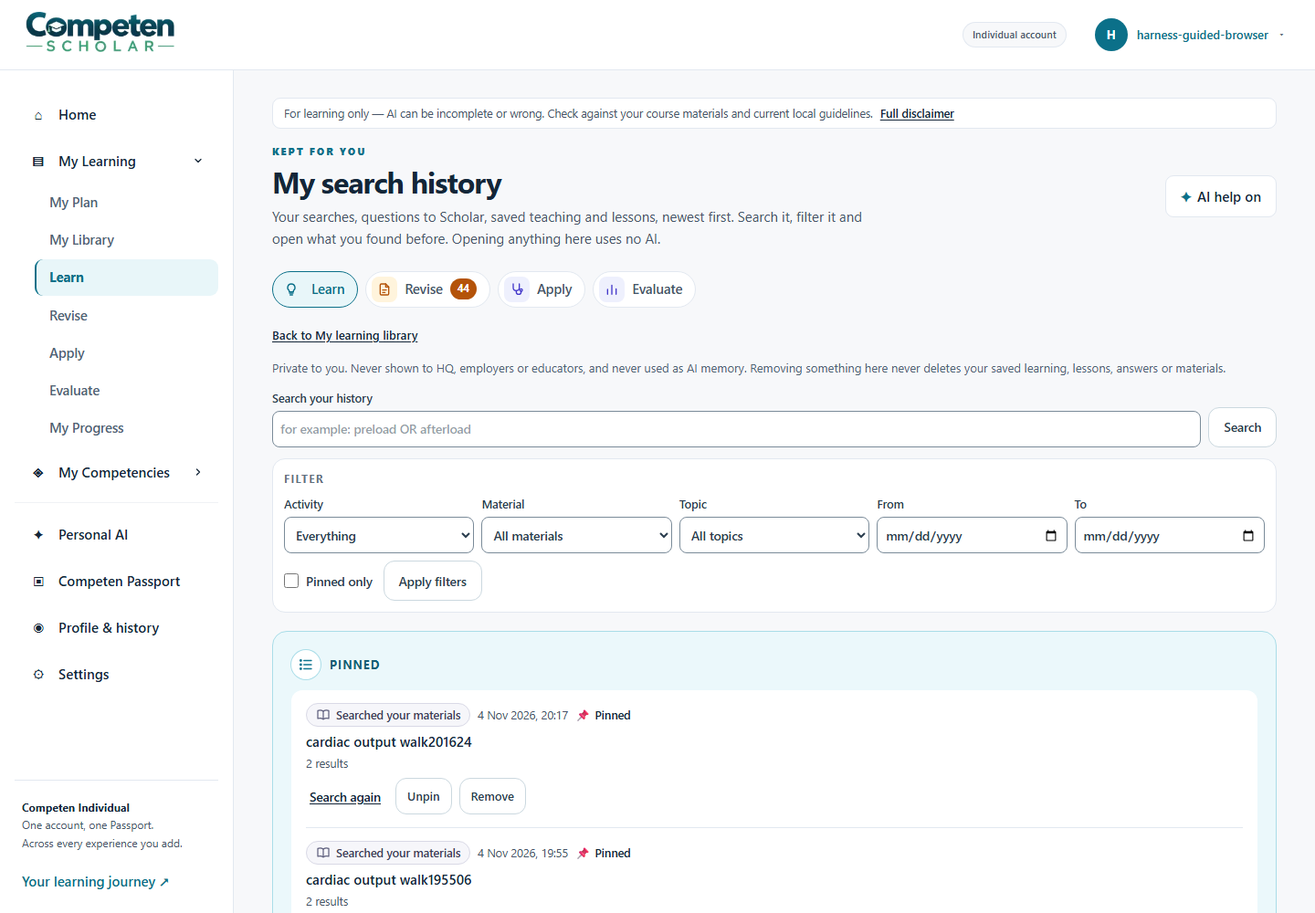
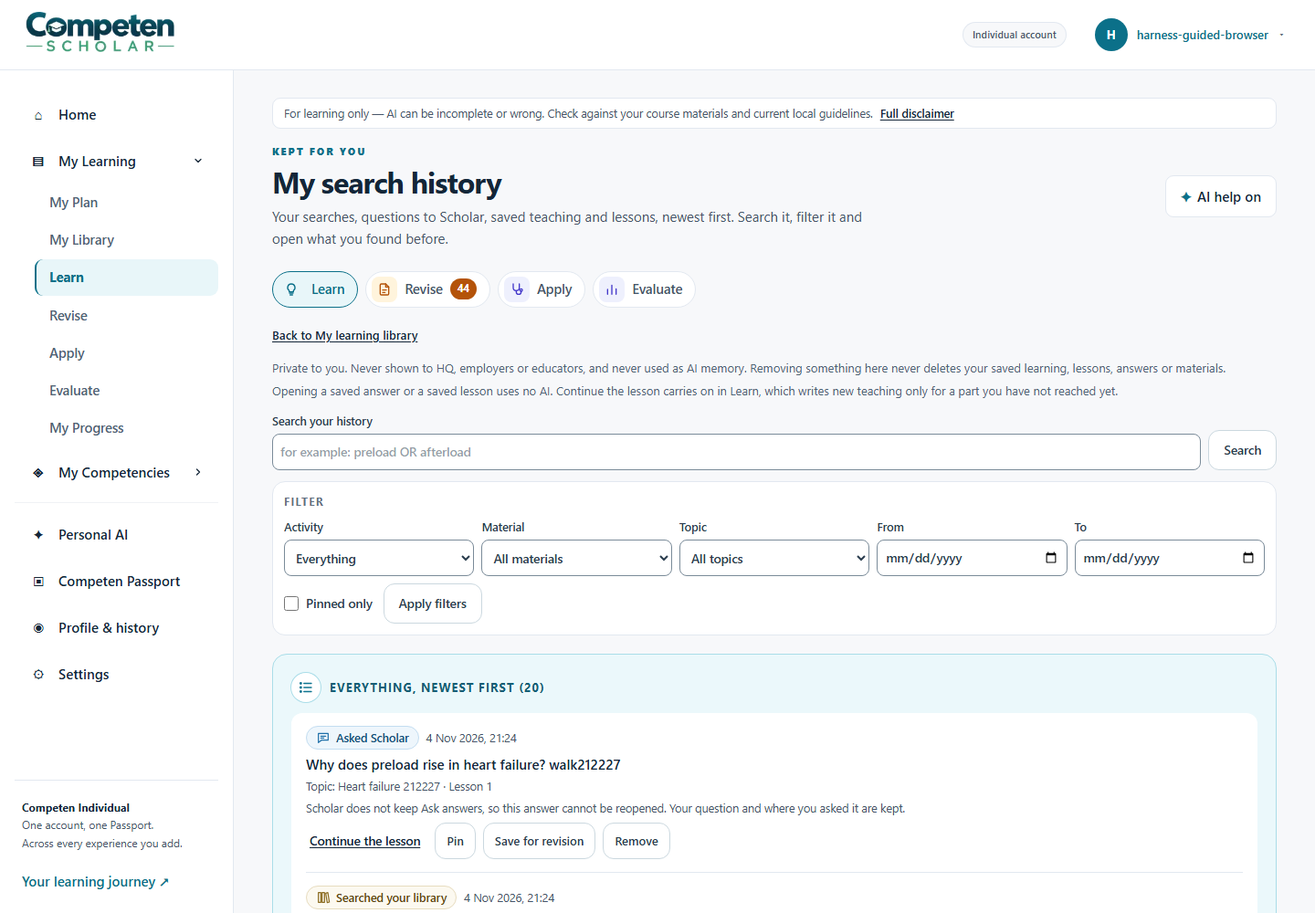
SCHOLAR-SEARCH-HISTORY-01: lessons open their saved teaching in the library (no AI), Continue is a separate worded link; build record and owner acceptance checklist

diff --git a/src/lib/individual/scholar/search-history.ts b/src/lib/individual/scholar/search-history.ts
@@ -11,8 +11,9 @@
 //   CAPTURE      only a SUBMITTED search or question of 2 to 300 characters with a letter or digit: never a keystroke, an
 //                empty query or a click. One client request key per submission, so a retry is the same entry. The same
 //                words again within two minutes are one entry (a double submit), never two.
-//   OPENING      a saved answer reopens as saved (the library's version view) and a lesson as recorded: no AI call. Ask
-//                answers were never kept (owner ruling D10), so an Ask entry says so and offers where it was asked.
+//   OPENING      a saved answer reopens as saved (the library's version view) and a lesson's saved teaching through the library:
+//                no AI call. Ask answers were never kept (owner ruling D10), so an Ask entry says so and offers where it was
+//                asked. Continuing a lesson in Learn is a separate, plainly worded link (CONTINUE_NOTE).
 //   PRIVACY      learner owned. Never shown to HQ, employers or educators, never Personal AI memory. Removing an entry or
 //                clearing never deletes saved teaching, lessons, attempts, learning evidence or materials.
 
@@ -38,6 +39,7 @@ export const TOPIC_MAX = 120;
 /** The same words of the same activity again within this window are one submission (a double click or a resend). */
 export const COLLAPSE_MS = 120_000;
 export const ASK_NOT_KEPT = "Scholar does not keep Ask answers, so this answer cannot be reopened. Your question and where you asked it are kept.";
+export const CONTINUE_NOTE = "Opening a saved answer or a saved lesson uses no AI. Continue the lesson carries on in Learn, which writes new teaching only for a part you have not reached yet.";
 export const HISTORY_PRIVACY = "Private to you. Never shown to HQ, employers or educators, and never used as AI memory. Removing something here never deletes your saved learning, lessons, answers or materials.";
 
 const UUID = /^[0-9a-f]{8}-[0-9a-f]{4}-[0-9a-f]{4}-[0-9a-f]{4}-[0-9a-f]{12}$/i;
@@ -155,23 +157,24 @@ export type HistoryEntry = {
   materialId: string | null; chunkId: string | null; artefactId: string | null; sessionId: string | null; step: number | null;
   resultCount: number | null; label: string; headline: string | null; pinnedAt: string | null; createdAt: string;
 };
-export type EntryLink = { label: string; path: string };
+export type EntryLink = { label: string; path: string; kind: "open" | "continue" };
 
 const enc = encodeURIComponent;
 /**
- * Pure. Where an entry leads, as paths in the Scholar area. Every one opens something kept (no AI on open): a saved answer
- * through the library's version view, a lesson through Learn's recorded session, a search by running it again (full text,
- * no AI). An Ask entry has no answer to open (ASK_NOT_KEPT): its lesson or section is offered instead.
+ * Pure. Where an entry leads, as paths in the Scholar area. "open" links open something kept and can never call an AI: a saved
+ * answer through the library's version view, a lesson's saved teaching through the library filtered to it, a section of the
+ * notes, a search run again (full text). An Ask entry has no answer to open (ASK_NOT_KEPT). "continue" is the one exception and
+ * says so: it carries on in Learn, whose saved teaching opens as saved, but which writes teaching for a part not yet reached,
+ * and records the visit. It is always the learner's click, never where an entry opens first.
  */
 export function entryLinks(e: Pick<HistoryEntry, "activity" | "query" | "materialId" | "chunkId" | "artefactId" | "sessionId" | "step">): EntryLink[] {
   const out: EntryLink[] = [];
-  if (e.artefactId) out.push({ label: "Open the saved answer", path: `study/saved?version=${enc(e.artefactId)}` });
-  if (e.activity === "lesson" && e.sessionId) out.push({ label: "Open the lesson", path: `study/learn?session=${enc(e.sessionId)}` });
-  else if (e.sessionId && e.step !== null) out.push({ label: "Open the lesson", path: `study/learn?session=${enc(e.sessionId)}#lesson-${e.step}` });
-  else if (e.sessionId) out.push({ label: "Open the lesson", path: `study/learn?session=${enc(e.sessionId)}` });
-  if (e.activity === "ask" && !e.sessionId && e.materialId && e.chunkId) out.push({ label: "Open the section", path: `study/${enc(e.materialId)}#c-${e.chunkId}` });
-  if (e.activity === "material_search" && e.query) out.push({ label: "Search again", path: `study/learn?q=${enc(e.query.slice(0, 200))}` });
-  if (e.activity === "library_search" && e.query) out.push({ label: "Search again", path: `study/saved?q=${enc(e.query.slice(0, 200))}` });
+  if (e.artefactId) out.push({ label: "Open the saved answer", path: `study/saved?version=${enc(e.artefactId)}`, kind: "open" });
+  if (e.activity === "lesson" && e.sessionId) out.push({ label: "Open its saved lessons", path: `study/saved?session=${enc(e.sessionId)}`, kind: "open" });
+  if (e.activity === "ask" && e.materialId && e.chunkId) out.push({ label: "Open the section", path: `study/${enc(e.materialId)}#c-${e.chunkId}`, kind: "open" });
+  if (e.activity === "material_search" && e.query) out.push({ label: "Search again", path: `study/learn?q=${enc(e.query.slice(0, 200))}`, kind: "open" });
+  if (e.activity === "library_search" && e.query) out.push({ label: "Search again", path: `study/saved?q=${enc(e.query.slice(0, 200))}`, kind: "open" });
+  if (e.sessionId) out.push({ label: "Continue the lesson", path: `study/learn?session=${enc(e.sessionId)}${e.step !== null ? `#lesson-${e.step}` : ""}`, kind: "continue" });
   return out;
 }
 

diff --git a/src/app/individual/(app)/[experience]/(scholar)/study/saved/searches/page.tsx b/src/app/individual/(app)/[experience]/(scholar)/study/saved/searches/page.tsx
@@ -13,7 +13,7 @@ import { LEARN_ACTION_LABEL, type LearnAction } from "@/lib/individual/scholar/c
 import { displaySessionTitle } from "@/lib/individual/scholar/learn-search";
 import { learnerTimeZone } from "@/lib/individual/scholar/learning-definitions";
 import {
-  ACTIVITY_FILTER_LABEL, HISTORY_ACTIVITIES, HISTORY_PAGE_SIZE, HISTORY_PRIVACY, entryLinks, entryTitle, hasHistoryFilters, historyParams,
+  ACTIVITY_FILTER_LABEL, CONTINUE_NOTE, HISTORY_ACTIVITIES, HISTORY_PAGE_SIZE, HISTORY_PRIVACY, entryLinks, entryTitle, hasHistoryFilters, historyParams,
   parseHistoryQuery, saveTarget, type HistoryEntry, type HistoryQuery,
 } from "@/lib/individual/scholar/search-history";
 
@@ -24,7 +24,8 @@ export const dynamic = "force-dynamic";
 // A part of the Personal Learning Library (Saved learning), reachable from Learn's search and the library's search. One private
 // list, newest first, of the learner's submitted searches and Ask Scholar questions (from now on) and of what Scholar already
 // kept (their saved teaching and lessons, read at request time: nothing invented, nothing regenerated). Full-text search and
-// filters for activity, material, topic and date. Every link opens something kept, so opening uses NO AI. Pin, Save for
+// filters for activity, material, topic and date. Opening a saved answer or a lesson's saved teaching uses NO AI; continuing in
+// Learn is a separate, plainly worded link. Pin, Save for
 // revision (the 820 bookmark), Remove one, Clear all (confirmed). Database reads only, keyed on the caller. Policy
 // scholar_search_history (default off). Never shown to HQ, employers or educators, never AI memory.
 
@@ -79,7 +80,7 @@ export default async function SearchHistoryPage({ params, searchParams }: { para
   const header = (
     <>
       <PageHeader accent={SCHOLAR.accent} eyebrow="Kept for you" title="My search history"
-        intro="Your searches, questions to Scholar, saved teaching and lessons, newest first. Search it, filter it and open what you found before. Opening anything here uses no AI." />
+        intro="Your searches, questions to Scholar, saved teaching and lessons, newest first. Search it, filter it and open what you found before." />
       <StudyNav dueCount={due} study={null} />
       <p className="mb-4 text-[13px]"><Link href={studyHref("saved")} className={`font-semibold underline underline-offset-2 ${focusRing}`}>Back to My learning library</Link></p>
     </>
@@ -109,7 +110,7 @@ export default async function SearchHistoryPage({ params, searchParams }: { para
     const title = e.activity === "lesson" ? displaySessionTitle(e.label) : entryTitle(e, a => LEARN_ACTION_LABEL[a as LearnAction]);
     return {
       key: e.key, activity: e.activity, title, when: fmt.format(new Date(e.createdAt)), whenIso: e.createdAt, meta, headline: e.headline, pinned: !!e.pinnedAt,
-      links: entryLinks(e).map(l => ({ label: l.label, href: studyHref(l.path.replace(/^study\/?/, "")) })),
+      links: entryLinks(e).map(l => ({ label: l.label, href: studyHref(l.path.replace(/^study\/?/, "")), kind: l.kind })),
       save: saveTarget(e), ai: e.activity === "teaching" || e.activity === "research", askNotKept: e.activity === "ask",
     };
   };
@@ -119,7 +120,8 @@ export default async function SearchHistoryPage({ params, searchParams }: { para
   return (
     <>
       {header}
-      <p className="mb-3 text-[13px] text-gray-700">{HISTORY_PRIVACY}</p>
+      <p className="mb-1 text-[13px] text-gray-700">{HISTORY_PRIVACY}</p>
+      <p className="mb-3 text-[13px] text-gray-700">{CONTINUE_NOTE}</p>
 
       <form method="get" action={base} role="search" className="flex flex-wrap items-end gap-2">
         {(["activity", "material", "topic", "from", "to"] as const).map(k => (q[k] ? <input key={k} type="hidden" name={k} value={q[k]!} /> : null))}

diff --git a/docs/evidence/SEARCH-HISTORY/walk/search-history-walk.ts b/docs/evidence/SEARCH-HISTORY/walk/search-history-walk.ts
@@ -138,6 +138,22 @@ async function main() {
   ok(/version/i.test(savedText) && savedText.length > 400, `2 the saved answer opened as saved (${savedHref?.replace(/^.*\?/, "?")})`);
   ok((await aiCalls(A.id)) === aiA0, `2 opening the saved answer made 0 AI calls (ledger + requests for A: ${aiA0} -> ${await aiCalls(A.id)})`);
   await a1.page.screenshot({ path: join(SHOTS, "02-saved-answer-reopened-1440.png"), fullPage: false });
+  // ... and a lesson's saved teaching: read in the library, with no AI call.
+  const events0 = (await counts(A.id)).events;
+  await go(a1.page, `${HIST}?activity=lesson`);
+  const openLesson = a1.page.locator(`[data-testid="history-list"] li[data-activity="lesson"] a`).filter({ hasText: "Open its saved lessons" }).first();
+  const lessonHref = await openLesson.getAttribute("href");
+  await openLesson.click();
+  if (!(await a1.page.waitForURL(/study\/saved\?session=/, { timeout: 60_000 }).then(() => true, () => false))) await go(a1.page, `${BASE}${lessonHref}`);
+  await a1.page.waitForLoadState("networkidle", { timeout: 60_000 }).catch(() => {});
+  await a1.page.waitForTimeout(3000);
+  ok((await aiCalls(A.id)) === aiA0 && (await a1.page.locator("main").innerText()).length > 400, `2 a lesson's saved teaching opened in the library with 0 AI calls (${aiA0} -> ${await aiCalls(A.id)})`);
+  info(`2 learning events for A across that open: ${events0} -> ${(await counts(A.id)).events}`);
+  await a1.page.screenshot({ path: join(SHOTS, "02b-lesson-saved-teaching-1440.png"), fullPage: false });
+  // every open link stays out of Learn's lesson; only the worded Continue link goes there
+  await go(a1.page, `${HIST}?activity=lesson`);
+  const opens = await a1.page.locator(`[data-testid="history-list"] a[data-link="open"]`).evaluateAll(els => els.map(e => e.getAttribute("href")!));
+  ok(opens.length > 0 && opens.every(h => !h.includes("/study/learn?session=")), "2 no open link goes into a Learn lesson; only Continue the lesson does");
 
   // 3. NEW SEARCHES APPEAR (Learn material search, a reload of the same results, and a library search)
   await go(a1.page, `${BASE}/individual/scholar/study/learn`);
@@ -327,6 +343,9 @@ async function main() {
   ok(afterB.notes === beforeB.notes && afterA.notes - beforeA.notes <= 1, `10 notes unchanged but A's one Save for revision bookmark (A ${beforeA.notes} -> ${afterA.notes}, B ${beforeB.notes} -> ${afterB.notes})`);
   ok((await aiCalls(A.id)) === aiA0 && (await aiCalls(B.id)) === aiB0, "10 the whole walk made 0 AI calls for either learner");
 
+  ok(afterB.hidden === beforeB.current_artefacts + beforeB.sessions, `10 B's clear marked their ${beforeB.current_artefacts + beforeB.sessions} recovered records removed, in the history table only`);
+  // Put back B's history (the marks only) so the next run starts the same.
+  await db.query(`delete from individual_scholar_search_history where user_id = $1 and origin = 'recovered'`, [B.id]);
   // Put back the one lesson this walk removed from A's history (its mark only, history table only), so the next run starts the same.
   await db.query(`delete from individual_scholar_search_history where user_id = $1 and request_key = $2 and origin = 'recovered'`, [A.id, lessonKey]);
   ok(consoleErrors.length === 0, `no application console errors${consoleErrors.length ? `: ${consoleErrors.join(" | ")}` : ""}`);

diff --git a/src/lib/individual/scholar/search-history.test.ts b/src/lib/individual/scholar/search-history.test.ts
@@ -70,16 +70,19 @@ describe("SCHOLAR-SEARCH-HISTORY-01: the page", () => {
     expect(parseEntryKey(`lesson:${C}x`)).toBeNull();
     expect(markKey({ kind: "artefact", id: B })).toBe(`artefact:${B}`);
   });
-  it("links open what is kept, never a new AI answer", () => {
+  it("open links open what is kept, never a new AI answer; continuing Learn is a separate, last link", () => {
     const base = { query: null, materialId: null, chunkId: null, artefactId: null, sessionId: null, step: null };
     expect(entryLinks({ ...base, activity: "teaching", artefactId: A, sessionId: B, step: 1 })).toEqual([
-      { label: "Open the saved answer", path: `study/saved?version=${A}` }, { label: "Open the lesson", path: `study/learn?session=${B}#lesson-1` }]);
-    expect(entryLinks({ ...base, activity: "lesson", sessionId: B })).toEqual([{ label: "Open the lesson", path: `study/learn?session=${B}` }]);
-    expect(entryLinks({ ...base, activity: "ask", materialId: A, chunkId: C })).toEqual([{ label: "Open the section", path: `study/${A}#c-${C}` }]);
-    expect(entryLinks({ ...base, activity: "material_search", query: "preload & afterload" })).toEqual([{ label: "Search again", path: "study/learn?q=preload%20%26%20afterload" }]);
-    expect(entryLinks({ ...base, activity: "library_search", query: "sepsis" })).toEqual([{ label: "Search again", path: "study/saved?q=sepsis" }]);
-    // no link anywhere starts a Learn action or an Ask
-    for (const l of entryLinks({ ...base, activity: "ask", query: "why?", sessionId: B, step: 0 })) expect(l.path).not.toMatch(/teach=|action=|panel=ask|fresh/);
+      { label: "Open the saved answer", path: `study/saved?version=${A}`, kind: "open" }, { label: "Continue the lesson", path: `study/learn?session=${B}#lesson-1`, kind: "continue" }]);
+    expect(entryLinks({ ...base, activity: "lesson", sessionId: B })).toEqual([
+      { label: "Open its saved lessons", path: `study/saved?session=${B}`, kind: "open" }, { label: "Continue the lesson", path: `study/learn?session=${B}`, kind: "continue" }]);
+    expect(entryLinks({ ...base, activity: "ask", materialId: A, chunkId: C })).toEqual([{ label: "Open the section", path: `study/${A}#c-${C}`, kind: "open" }]);
+    expect(entryLinks({ ...base, activity: "material_search", query: "preload & afterload" })).toEqual([{ label: "Search again", path: "study/learn?q=preload%20%26%20afterload", kind: "open" }]);
+    expect(entryLinks({ ...base, activity: "library_search", query: "sepsis" })).toEqual([{ label: "Search again", path: "study/saved?q=sepsis", kind: "open" }]);
+    // every "open" link stays on the pages that cannot call a model, and no link starts a Learn action or an Ask
+    const all = (["ask", "teaching", "research", "lesson", "material_search", "library_search"] as const).flatMap(activity => entryLinks({ query: "why?", materialId: A, chunkId: C, artefactId: B, sessionId: C, step: 0, activity }));
+    for (const l of all) expect(l.path).not.toMatch(/teach=|action=|panel=ask|fresh|study=new|[?&]s=/);
+    for (const l of all.filter(x => x.kind === "open")) expect(l.path).not.toMatch(/study\/learn\?session=/);
     expect(ASK_NOT_KEPT).toMatch(/does not keep Ask answers/);
   });
   it("save is the 820 bookmark on the saved teaching or the one lesson, and nothing else", () => {

diff --git a/src/app/individual/(app)/[experience]/(scholar)/study/_components/search-history-client.tsx b/src/app/individual/(app)/[experience]/(scholar)/study/_components/search-history-client.tsx
@@ -11,13 +11,14 @@ import { focusRing } from "../../../../../_components/chrome";
 
 // SCHOLAR-SEARCH-HISTORY-01 -- the interactive parts of My Search History (study/saved/searches) and its two capture pieces.
 // Everything shown is decided on the server (the page). Pin, Save for revision (the library's own 820 bookmark), Remove and
-// Clear go to the learner's own routes and refresh the page. Nothing here calls an AI: every link opens something kept.
+// Clear go to the learner's own routes and refresh the page. Nothing here calls an AI. Every "open" link opens something kept;
+// "Continue the lesson" is the one link into Learn, always the learner's click (search-history.ts entryLinks).
 // Design: the Scholar Learning Design System (docs/design/SCHOLAR-LEARNING-DESIGN-SYSTEM.md): each activity names a learning
 // tone and an icon, and carries its meaning in words; one edge per level (the rows sit on white inside one section).
 
 export type ClientEntry = {
   key: string; activity: HistoryActivity; title: string; when: string; whenIso: string; meta: string[];
-  headline: string | null; pinned: boolean; links: { label: string; href: string }[];
+  headline: string | null; pinned: boolean; links: { label: string; href: string; kind: "open" | "continue" }[];
   save: { targetKind: "artefact"; artefactId: string } | { targetKind: "lesson"; sessionId: string; step: number } | null;
   ai: boolean; askNotKept: boolean;
 };
@@ -70,7 +71,7 @@ function Row({ e, notesOn }: { e: ClientEntry; notesOn: boolean }) {
       {e.ai && <DisclaimerBadge className="mt-1.5">AI-generated from your notes, not clinically reviewed</DisclaimerBadge>}
       {e.askNotKept && <p className="mt-1 text-[12.5px] text-gray-600">{ASK_NOT_KEPT}</p>}
       <div className="mt-1.5 flex flex-wrap items-center gap-x-3 gap-y-1">
-        {e.links.map(l => <Link key={l.href} href={l.href} className={linkCls}>{l.label}</Link>)}
+        {e.links.map(l => <Link key={l.href} href={l.href} prefetch={false} className={linkCls} data-link={l.kind}>{l.label}</Link>)}
         <span className="flex flex-wrap items-center gap-2">
           <button type="button" className={btn} disabled={!!busy} aria-pressed={e.pinned} onClick={() => act("pin")}>{busy === "pin" ? "…" : e.pinned ? "Unpin" : "Pin"}</button>
           {notesOn && e.save && <button type="button" className={btn} disabled={!!busy || saved} onClick={() => act("save")}>{saved ? "Saved for revision" : busy === "save" ? "Saving…" : "Save for revision"}</button>}

diff --git a/docs/evidence/SEARCH-HISTORY/walk/search-history-ask-ui.ts b/docs/evidence/SEARCH-HISTORY/walk/search-history-ask-ui.ts
@@ -1,3 +1,4 @@
+/* eslint-disable @typescript-eslint/no-unused-vars -- evidence script: shares the walk helpers, not all of them used here */
 // SCHOLAR-SEARCH-HISTORY-01: the STAGING acceptance walk for My Search History, as two fixture learners.
 //   A = harness-guided-browser@competen.test (13 saved teachings, 4 lessons), B = scholar-demo@competen.demo (1 and 1).
 // Signed in with a magic-link session minted by the STAGING service role (no password is read, typed or printed). Refuses

diff --git a/docs/evidence/SEARCH-HISTORY/walk/search-history-key-off.ts b/docs/evidence/SEARCH-HISTORY/walk/search-history-key-off.ts
@@ -1,3 +1,4 @@
+/* eslint-disable @typescript-eslint/no-unused-vars -- evidence script: shares the walk helpers, not all of them used here */
 // SCHOLAR-SEARCH-HISTORY-01: the STAGING acceptance walk for My Search History, as two fixture learners.
 //   A = harness-guided-browser@competen.test (13 saved teachings, 4 lessons), B = scholar-demo@competen.demo (1 and 1).
 // Signed in with a magic-link session minted by the STAGING service role (no password is read, typed or printed). Refuses

diff --git a/docs/evidence/SEARCH-HISTORY/992-build-record.md b/docs/evidence/SEARCH-HISTORY/992-build-record.md
@@ -1,0 +1,129 @@
+# Build record: migration 992 and branch `scholar/search-history-01` (SCHOLAR-SEARCH-HISTORY-01, My Search History)
+
+**Authority:** owner directive "COMPETEN SCHOLAR — MY SEARCH HISTORY" (4 Nov 2026, P1, SALE learner continuity). Retention: owner decision 4 Nov 2026 (learner-owned records kept until the learner deletes them; deletion follows the documented policy for primary records and backups).
+**State of 992 (CLAUDE.md four states):** 2, applied and verified on staging (`ezhvpgtcqcdsgylrxgdb`) twice, rollback rehearsed. **Not applied to production.** When merged, `main` holds 992 while production does not. The feature is behind `scholar_search_history`, which defaults OFF, and fails closed without 992.
+**Number:** 992, from the coordinator's 992-994. Before claiming: no 992-994 on `origin/main` or any remote branch, and no 992-994 objects on staging. 993 and 994 are unused. Claim note: `SEARCH-HISTORY-migration-number-claim.md` in the shared notes.
+
+## Phase 1: what Scholar already keeps (read-only inventory, 4 Nov 2026)
+
+| Activity | Kept per learner today? | Table and writer | In the history |
+|---|---|---|---|
+| Learn material search (`study/learn?q=`) | **No**, address only | None. `learn-search.ts` reads | **Captured from now on** |
+| Library search (`study/saved?q=`) | **No**, address only | None. 820 search function reads | **Captured from now on** |
+| Ask Scholar in a lesson (Learn `ask`) | **Words no.** One event with the action and step, in recorded sessions only | `individual_scholar_learning_event` (414), through `learn/act` | **Captured from now on.** Old events hold no words, so they are not shown |
+| Ask about this panel (`learn/assistant`) | **No** | None. It keeps nothing | **Captured from now on** |
+| Understand questions (`explain`) | **No** (owner ruling D10; the audit row holds ids and counts) | None | **Captured from now on** |
+| Ask answers, all three | **No, and still not.** | None | Never. The entry says the answer was not kept |
+| Research searches | **Not per learner.** The cache has no user id, and `plat_research_requests` has no user or query | `individual_scholar_research_cache` (570, shared public cache) | Keywords are not recoverable. Saved teaching that includes research is shown as **Teaching with research** |
+| Teaching requests and saved explanations | **Yes** | `individual_scholar_artefact` (415, 820), through `learn/act` | **Recovered at read time**, current versions |
+| Lessons and study sessions | **Yes** | `individual_scholar_learning_session`, `_step` (414) | **Recovered at read time** |
+| Revision sessions, question history, checks | Yes | Their own tables | Not searches. Left in Revise and Question history |
+| Topic bookmarks in Learn | This device only | `localStorage` | No: not a record |
+| Practice `practice_search_history` | Another product | Practice | Not reused (product separation) |
+| `plat_ai_requests`, `ai_usage_ledger` | Platform records, no question text | Platform | Not used. Platform records are not the learner's history |
+
+**So, for the pilot learners:** their saved teaching and lessons appear at once. Their earlier searches and Ask questions were never kept and cannot appear. Nothing is backfilled, invented or regenerated.
+
+## Migration 992
+
+| File | sha256 | Notes |
+|---|---|---|
[1 lines of base64/hex data omitted]
+| `VERIFY-992.sql` | in the PR | Staging only: 24 shape probes and the behaviour probes, all undone |
[3 lines of base64/hex data omitted]
+
+Additive only: one table, two functions. No existing table, column, constraint or row changes.
+- **`individual_scholar_search_history`:** `captured` rows hold the learner's submitted words, an optional topic and references, never an answer. `recovered` rows are marks only: pinned or removed from the history. Composite foreign keys refuse another learner's material, saved teaching or lesson. Plain unique index on `(user_id, request_key)`. RLS on, read own, one policy.
+- **`individual_scholar_search_history_list(...)`:** newest first, full text, filters. Captured rows plus current saved teaching and lessons, read at request time. SECURITY INVOKER, service_role only.
+- **`individual_scholar_search_history_clear(p_user_id)`:** one statement, touches this table only. SECURITY INVOKER, service_role only.
+
+House rules: ALL CLEAR (2 warnings, the APPLY WHOLE constructs).
+
+### Staging evidence (run with `run-staging-sql.mjs`, whole file, one transaction)
+
+| Step | Result |
+|---|---|
+| PRECHECK before | no table, no functions; 15 artefacts, 5 sessions, 285 events, 12 notes, 138 attempts, 9 materials |
+| VERIFY-992 before 992 | **red**: "table individual_scholar_search_history is missing" |
+| 992 applied twice | 18:29:13Z and 18:29:16Z (4 Nov), Committed both times, same sha256 |
+| VERIFY-992 | Committed (PASS), three runs in a row |
+| Planted expectation (`captured_empty` expected accepted) | **red**: "probe captured_empty was refused, expected accepted". The control can fail |
+| ROLLBACK-992 rehearsal (one transaction, rolled back) | table and both functions gone, then rolled back on purpose; staging unchanged, VERIFY passes |
+| VERIFY-992-prod on staging | passes |
+
+The first VERIFY pass hid a flaky probe: two rows with the same transaction clock tied on "newest first". It went red on a later run and was fixed by giving the second probe a later time. The list itself breaks ties by entry key.
+
+### Fail closed
+- **Without 992:** `historySchema` is false. The page says it is not available yet, GET, PATCH and DELETE answer 409, and a capture keeps nothing and shows no error. Unit tests cover codes 42883, PGRST202 and 42P01, and that no table is touched. A transient error is never remembered as absent.
+- **Key off (the default), proven live on staging** (`walk-key-off-*.log`, 6/6): the page says it is not offered, GET, PATCH and clear answer 403, a capture answers `{ kept: false, reason: "off" }`, Learn has no link and no key field, the library has no link, no row is written.
+
+## What was built
+
+- **Model:** `search-history.ts` (pure), `search-history.test.ts`.
+- **Reads and writes:** appended to `store.ts`, the one Scholar write site (harness rule A4).
+- **Route:** `api/individual/scholar/library/history` (GET, POST capture, PATCH pin, DELETE one or all).
+- **Page:** `study/saved/searches`, linked from Learn's search box and the library's views. Filters for activity, material, topic, date and pinned; full text with marked snippets; a pinned strip; 25 a page.
+- **Actions:** Pin, Save for revision (the existing 820 bookmark), Remove, Clear with a confirm step.
+- **Capture:** a hidden `hk` key on the two search forms and `RecordSearch` on their results; `recordHistory` after a reply in Learn's Ask, the Ask panel and Understand.
+- **Design system:** `LearningSectionHead`, `LearningIcon`, `DisclaimerBadge`, `learnBox`, `learnTone`. Each activity names a tone and an icon and says what it is in words.
+
+**Links.** "Open the saved answer" (library version view), "Open its saved lessons" (library filtered to the lesson), "Open the section" and "Search again" cannot call a model. "Continue the lesson" is separate and plainly worded: Learn opens saved teaching as saved, but writes teaching for a part not yet reached and records the visit. The page says so.
+
+**Capture rules.** Submitted only: no keystrokes, empty queries or clicks. Words are 2-300 characters and must hold a letter or digit. One key per submission, so a retry is the same row; a reload reuses the address's key. The same words of the same activity within two minutes are one entry. Words that look like patient identifiers are never kept (`findPatientIdentifiers`). A question is kept once Scholar replied, including "this isn't in your notes". A clarify prompt is not yet a reply, so it is kept when the learner answers it.
+
+## Privacy and retention
+
+- Learner-owned, keyed on the guard's id. RLS read own. Service role on server routes only.
+- **HQ:** `=individual_scholar_search_history` is governed in `plane-boundary-scan.ts` with NO allowlist entry, so any landlord-plane read is refused. No audit row is written, because a row naming a learner's searching would itself be identifiable activity outside their plane.
+- **Employers, educators, other learners:** nothing reads it. A test lists the only files that may name the table (the model, the store, the scan).
+- **Personal AI:** nothing feeds it. The same test holds that no AI context file reads the table.
+- **Deletion:** Remove deletes a captured row, or marks a recovered record removed. Clear does both in one statement. Neither touches saved teaching, lessons, attempts, evidence, notes or materials (walk step 10, VERIFY).
+- **Retention:** kept until the learner deletes it; no new rule. Primary rows go at once. Backups follow the documented backup and retention policy. Account deletion cascades from `profiles`.
+
+## Proof
+
+**Plane boundary:** `plane-boundary-1-green.log` (63 passed); a planted HQ read in `scholar-analytics/load.ts`: **red**, `REFUSED ... [TABLE_NOT_ALLOWED] individual_scholar_search_history` (`plane-boundary-2-planted-red.log`); restored, green (`plane-boundary-3-restored-green.log`).
+
+**Staging walks** (`walk/`, screenshots in `walk/shots/`). Two fixture learners, A `harness-guided-browser@competen.test`, B `scholar-demo@competen.demo`, with magic-link sessions minted by the staging service role: no password read or typed.
+
+| Acceptance item | Result |
+|---|---|
+| Existing history appears | A's total = current saved teaching + lessons + captured; newest first |
+| A cannot read B's history, nor B A's | Page and API hold none; pin, remove and hide answer 404; naming A's lesson, teaching or material keeps none of those references; filtering by A's material shows nothing |
+| Saved answers and lessons reopen with 0 AI calls | AI rows 412 → 412 across both; learning events unchanged across the lesson open |
+| New searches appear | Learn search, library search and Ask, at the top |
+| Retries do not duplicate | Reload of the same results adds nothing; same key is `existing`; typing without submitting and an empty query keep nothing |
+| Filters and search | Full text with marks; activity, material, topic and date |
+| Delete and clear | Remove deletes the row; a removed lesson leaves the history and stays in its table; clear asks first, Cancel keeps all, confirm empties B, A unchanged, B's records unchanged |
+| Across devices | 1440 and a 390 phone context show the same entries in the same order; a phone search tops the desktop's list |
+| Records and progress unchanged | artefacts, sessions, events, attempts, materials, cards, notes: before = after |
+| Responsive | No horizontal overflow at 1440, 820, 390 |
+| Real Ask UIs (`walk-ask-ui-*.log`, 8/8) | The Ask panel and Learn's Ask each keep one row with its reference, and the page says the answer was not kept. **2 AI calls, made on purpose.** No column can hold an answer |
+
+Final `walk-*.log`: **ALL PASS, 59/59**, 0 AI calls, 0 application console errors, no 5xx.
+
+`walk-194357-events-moved-by-another-session.log` is kept on purpose. Its one red line is A's events going 359 → 371: every new row was teach or resume on session 2b9fccd2 at 19:46-19:48Z, the lesson another session's walk uses. That walk never opened a lesson. Later runs show no change.
+
+## Defects the walks found, fixed here
+
+1. A submit before hydration sent an empty key: nothing was kept, safely. The key is now written on mount and again on submit.
+2. `!withheld` dropped questions answered "this isn't in your notes", and the clarify path skipped capture. Both are now kept.
+3. "Open the lesson" could not honestly promise no AI, so lessons got a library link and a separate Continue link.
+4. The Ask panel said "Nothing is saved", which is untrue once the question is kept. It now says the answer is not saved and, where the history is offered, that the question is kept there.
+
+## Limits
+
+- Earlier searches and Ask questions cannot appear: they were never kept.
+- Research keywords are not kept. Only saved teaching that includes research shows.
+- Removing a recovered entry has no undo in the page.
+- Understand's follow-up tutor turns are not captured; only its first question box is. Personal AI's own page is not captured: it is not Scholar's Ask.
+- Search words are kept when a material is erased (the material link goes). They are the learner's own words and clear separately. Account deletion removes them.
+
+## Staging rows left
+
+- `scholar_search_history` published ON (`staging-config.sql`). Production stays at the default, OFF.
+- On fixture A: a few captured entries and one 820 bookmark from Save for revision.
+- 2 AI calls on A from the Ask proof, and the earlier debugging runs of that script.
+- Walk rows from earlier runs were removed (history table only).

diff --git a/docs/evidence/SEARCH-HISTORY/OWNER-PROD-ACCEPTANCE.md b/docs/evidence/SEARCH-HISTORY/OWNER-PROD-ACCEPTANCE.md
@@ -1,0 +1,58 @@
+# My Search History: production acceptance (owner-run)
+
+Run only after the owner's GO. No agent signs in as these learners or touches production. Do not reset an account or repeat a completed session.
+
+## Before
+
+1. Apply `992-individual-scholar-search-history.sql` in the production SQL editor, whole file.
+2. Run `VERIFY-992-prod.sql`. Expect the notice `VERIFY-992-prod: PASS`.
+3. Deploy the app. Publish `scholar_search_history` ON in HQ (Library: My search history).
+4. Run `PROD-COUNTS-992.sql` and keep the result: this is the "before".
+
+Each learner signs in on their own account, or you check with them present. Use **competenelisha** as learner A and **apollonatooli** as learner B.
+
+## Checks, for each learner
+
+Open **My Learning → Learn**. Below the search box, click **My search history**.
+
+| # | Do | Expect | Pass |
+|---|---|---|---|
+| 1 | Read the list | Their saved teaching and lessons, newest first. Earlier searches and Ask questions are **not** there: they were never kept | ☐ |
+| 2 | On a Saved teaching row, click **Open the saved answer** | The saved answer as it was, with no "writing" or waiting for AI | ☐ |
+| 3 | Back. On a Lesson row, click **Open its saved lessons** | The lesson's saved teaching in the library, no AI | ☐ |
+| 4 | In Learn, search `history check` and click **Search my library**, then reload the results | The search is at the top of the history, **once** | ☐ |
+| 5 | In My Library, search `history check two` | It appears as Searched your library | ☐ |
+| 6 | In a lesson with saved teaching, ask Ask Scholar one short question (uses one AI call) | It appears as Asked Scholar, tells them the answer was not kept, and offers Continue the lesson | ☐ |
+| 7 | In the history, search `history` | Only matching entries, words marked | ☐ |
+| 8 | Filter by Activity, then Material, then a date range of today | Each narrows the list correctly. Topic lists appear where a lesson or question has a topic | ☐ |
+| 9 | **Pin** the search from step 4, then **Unpin** it | It shows under Pinned, then leaves | ☐ |
+| 10 | **Remove** the search from step 5 | It goes. Nothing else changes | ☐ |
+| 11 | Open the history on a second device or browser | The same entries in the same order. A search made there appears on the first after a reload | ☐ |
+
+## One learner cannot see the other
+
+| # | Do | Expect | Pass |
+|---|---|---|---|
+| 12 | Signed in as A, copy the address of A's history with a material filter on. Open it signed in as B | B sees nothing of A's | ☐ |
+| 13 | Compare the two lists | No entry from one is in the other, and B's list does not hold A's `history check` search | ☐ |
+
+## Clear
+
+**Clear has no undo in the page.** It removes the learner's whole history view, but none of their learning. It was proven on staging, so on production use it only if the learner agrees.
+
+| # | Do | Expect | Pass |
+|---|---|---|---|
+| 14 | Click **Clear search history…**, then **Cancel** | Nothing changes | ☐ |
+| 15 | Only with the learner's agreement: click it again, then **Yes, clear my search history** | The list is empty. Their My Library, lessons and progress are as before | ☐ |
+
+## After
+
+| # | Do | Expect | Pass |
+|---|---|---|---|
+| 16 | Run `PROD-COUNTS-992.sql` again and compare | `artefacts`, `sessions`, `attempts`, `materials`, `cards`, `notes` unchanged. `events` and `ai_rows` rise only by what steps 2-6 did: step 6 asked one question, and opening a saved answer or saved lessons adds neither | ☐ |
+| 17 | In HQ, look for the learner's searches | They appear nowhere in HQ | ☐ |
+
+## Roll back
+
+- **Quickest:** set `scholar_search_history` OFF in HQ. The page and capture stop at once, and nothing else changes.
+- **Full:** `ROLLBACK-992.sql` refuses while any entry exists. Those are learner records, so removing them is your decision by hand.
